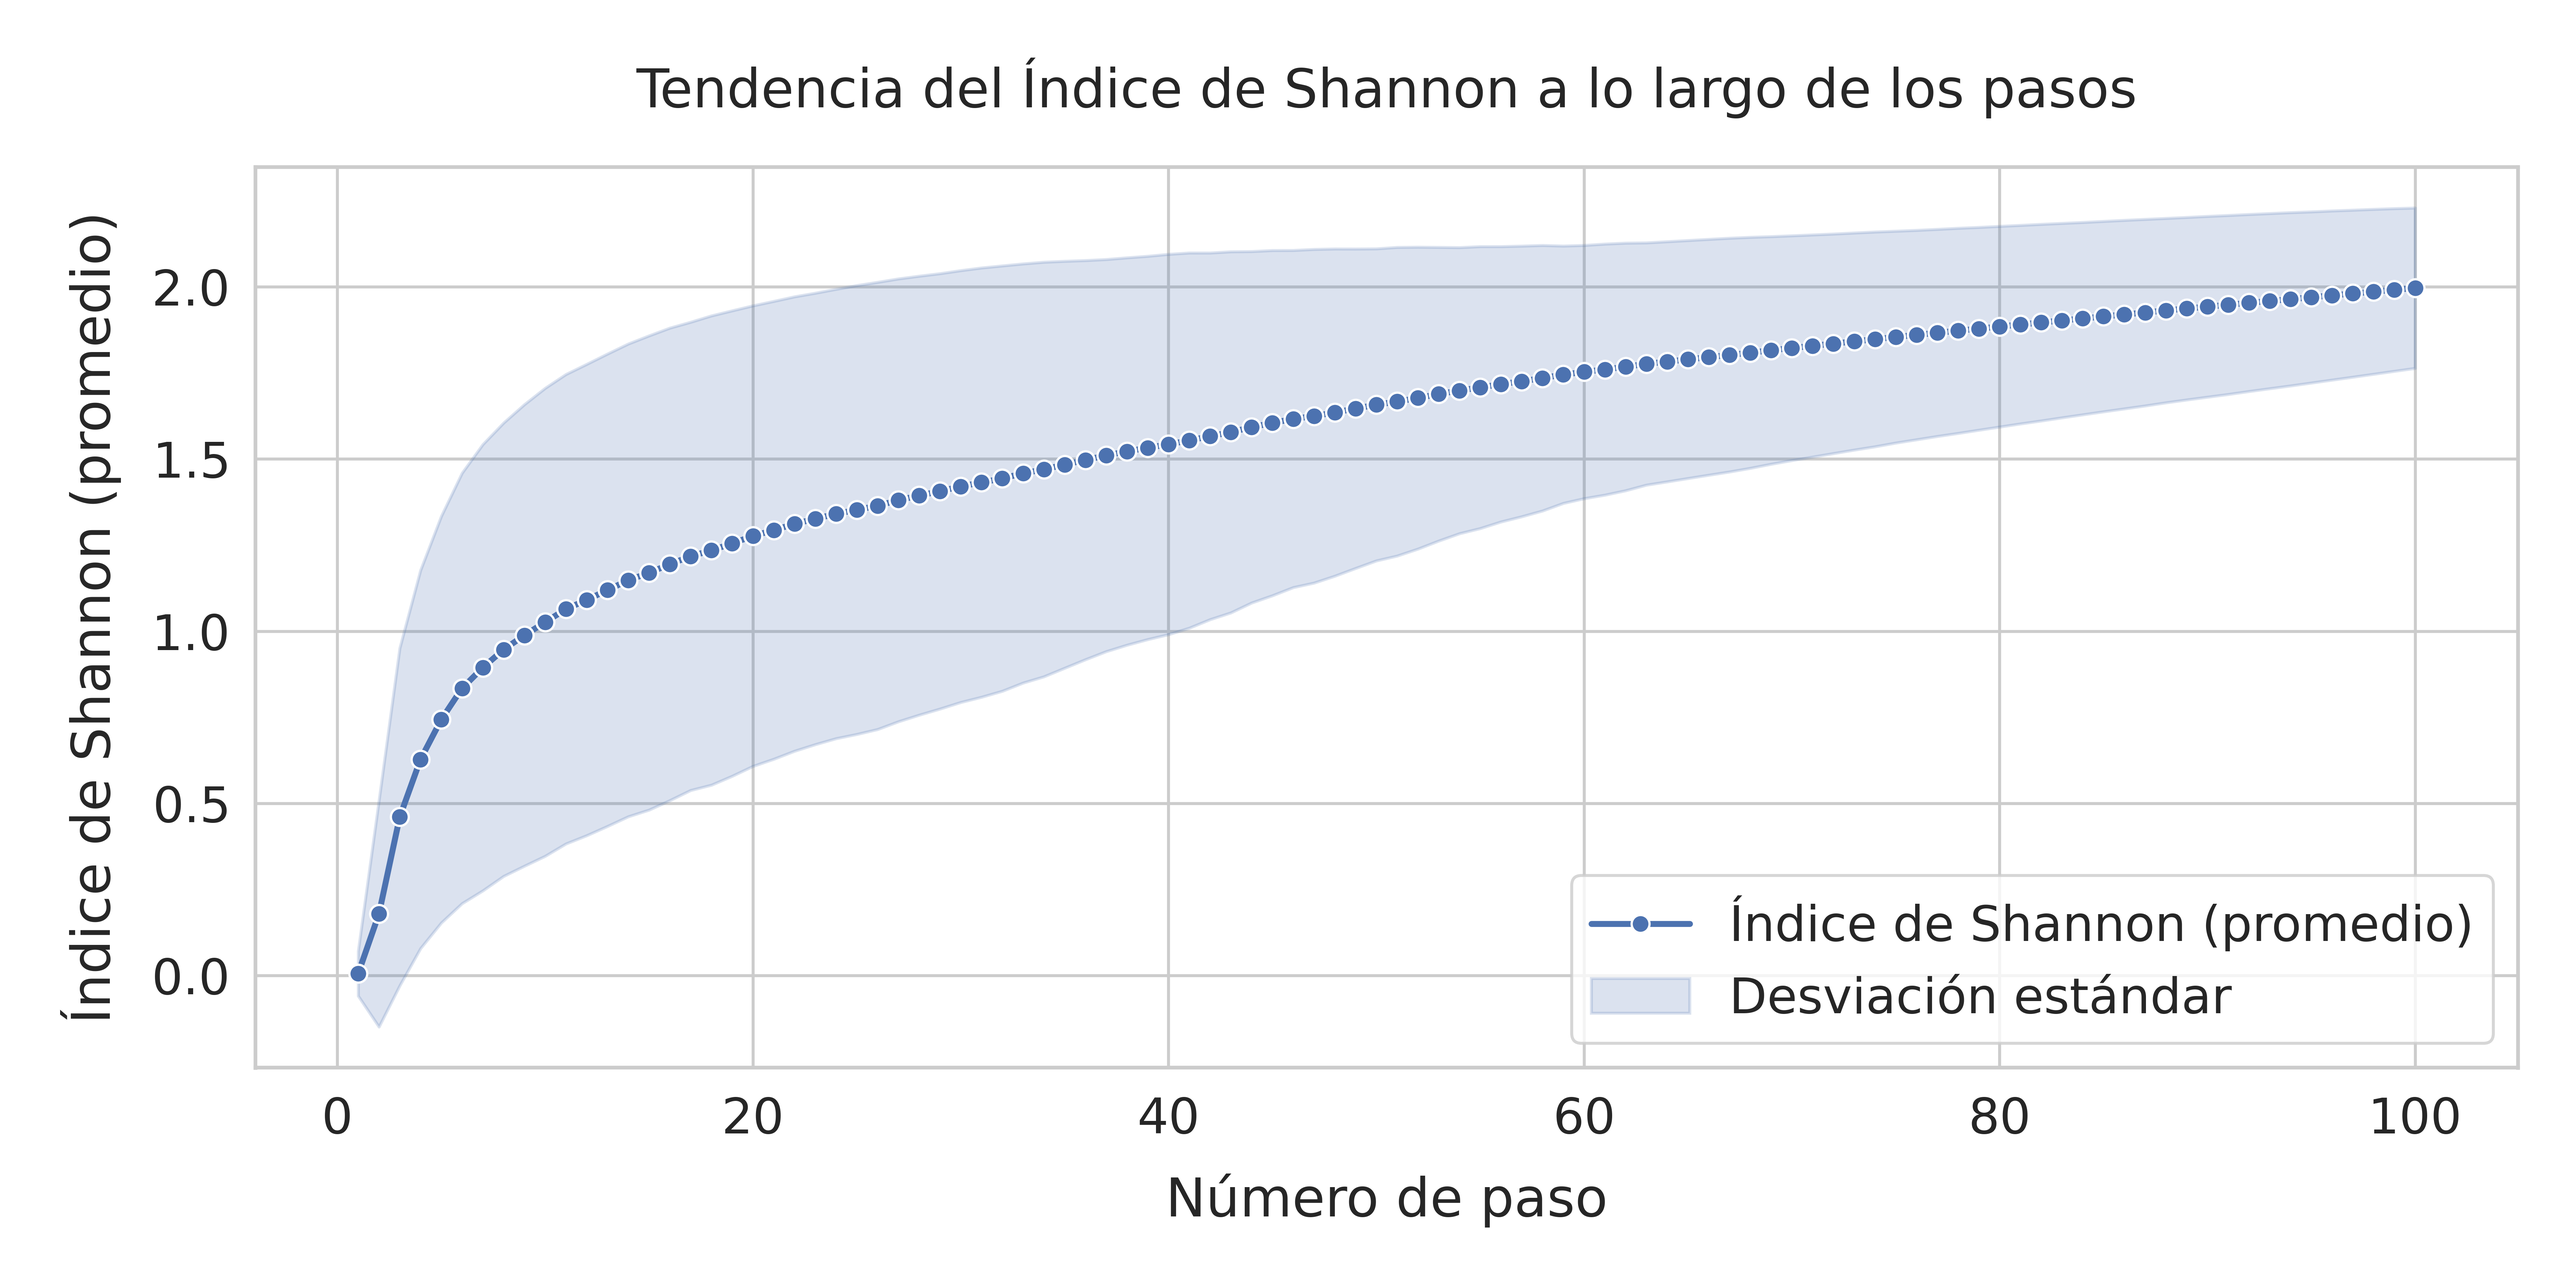
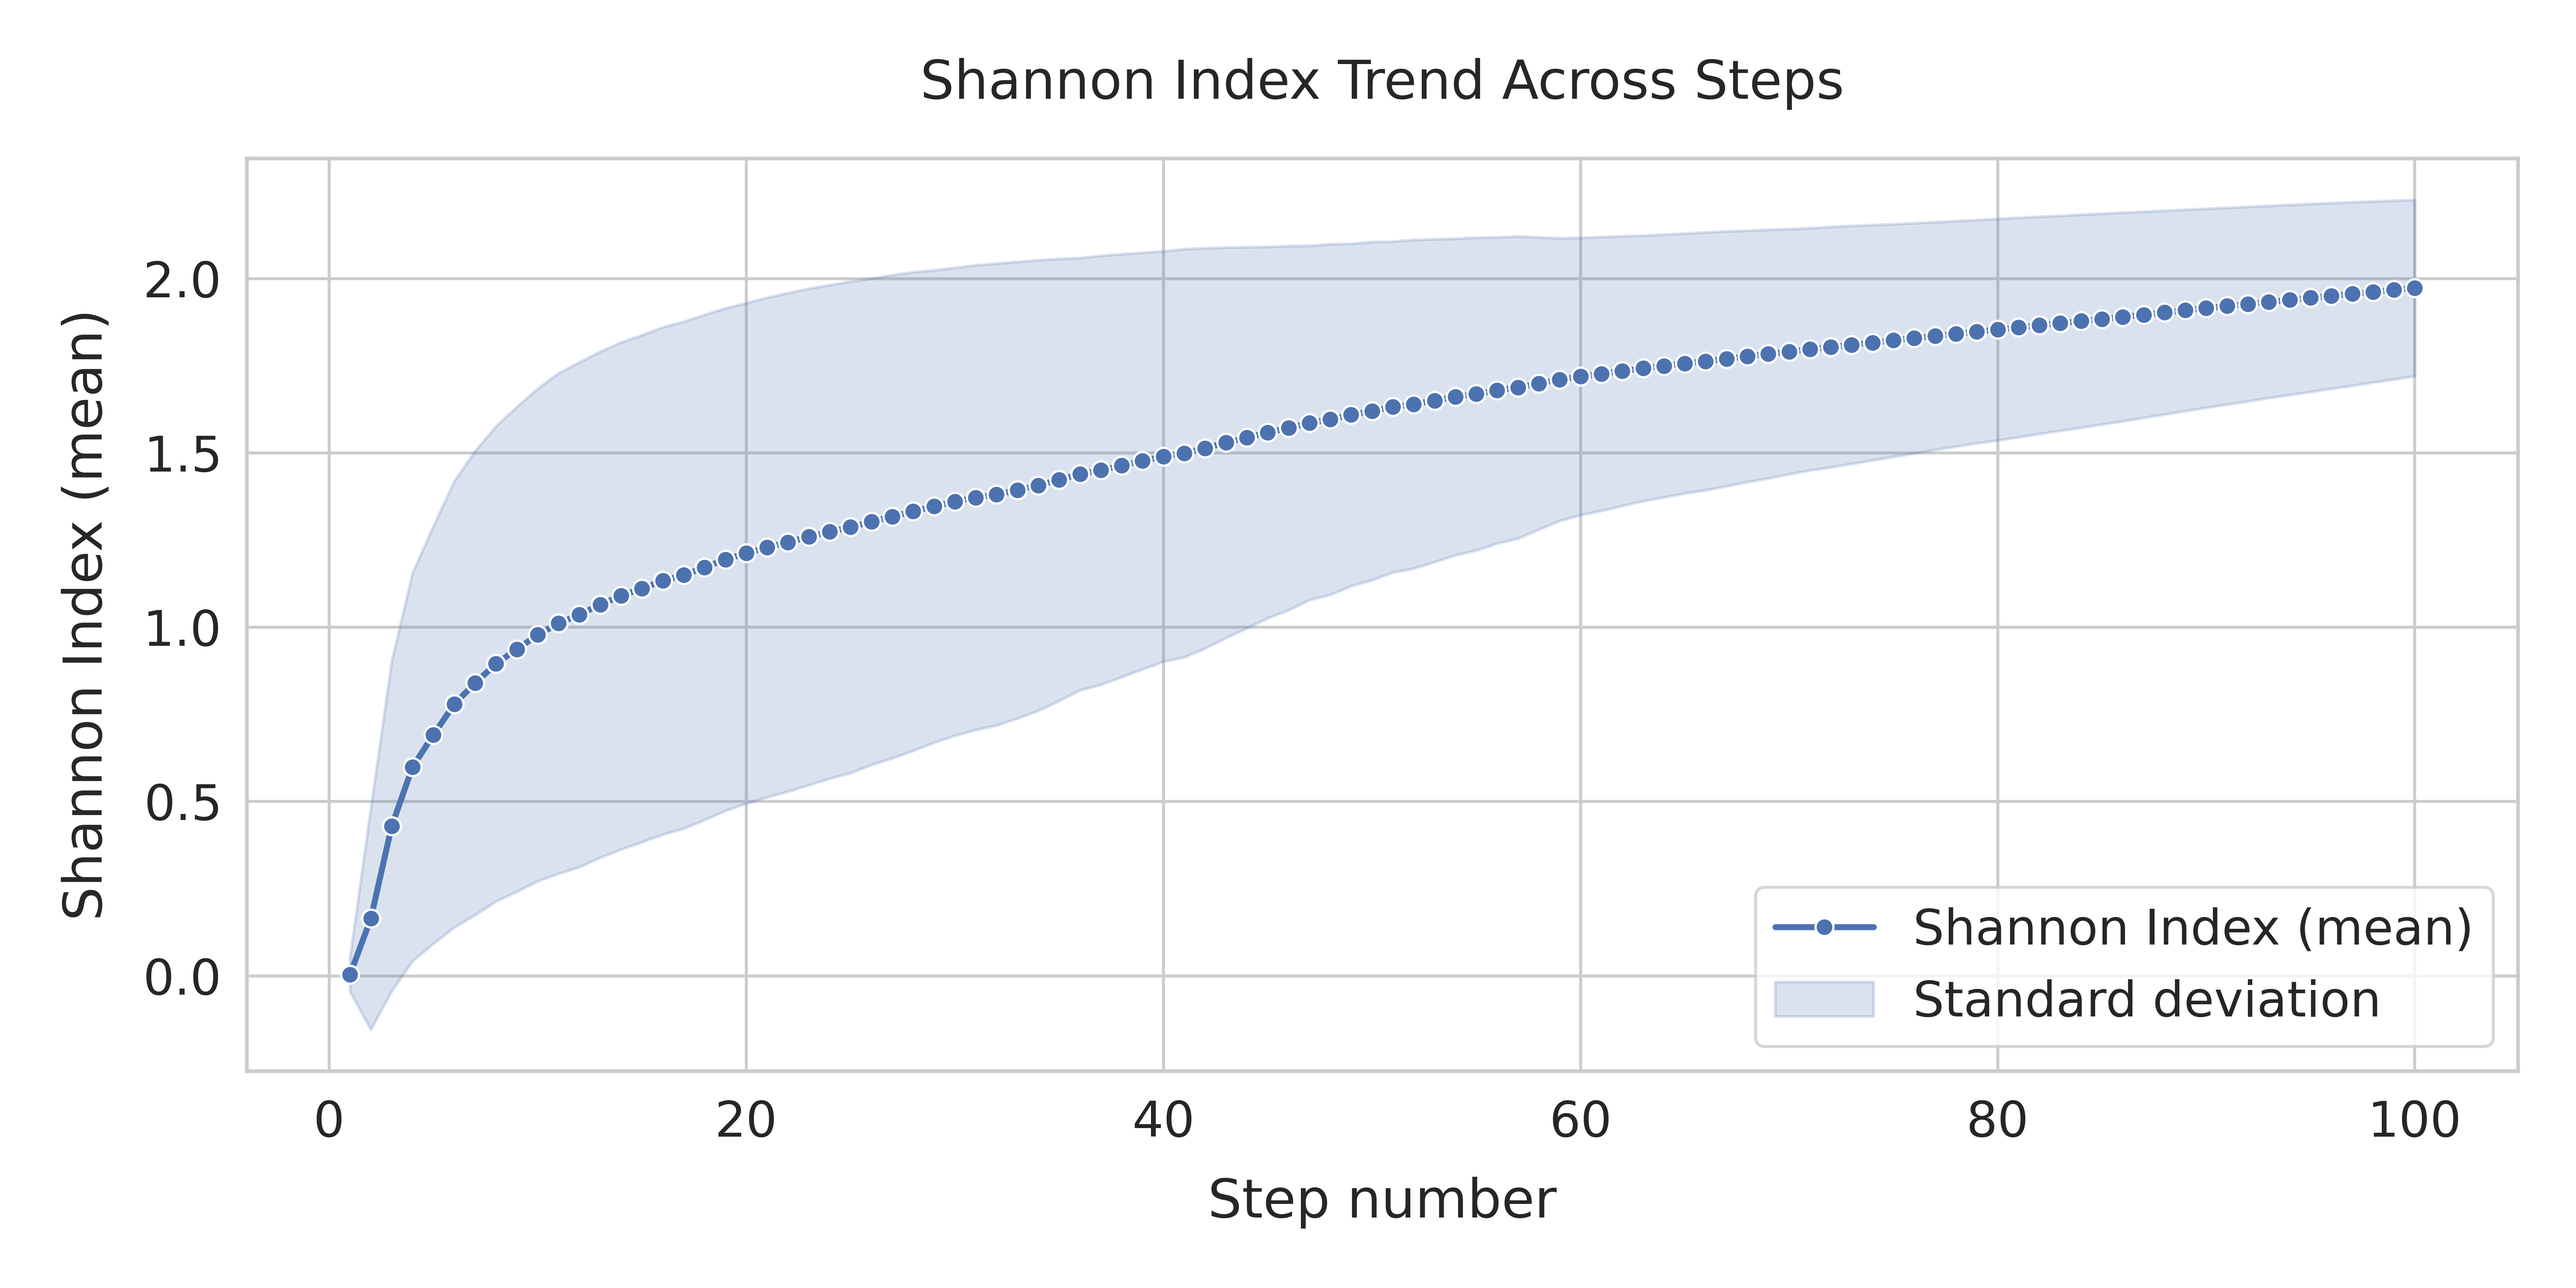
Improvements and corrections

diff --git a/Analysis/Diversity_Index/ROI_Sampling/shannon_heatmap_old.py b/Analysis/Diversity_Index/ROI_Sampling/shannon_heatmap_old.py
@@ -2,8 +2,7 @@ import pandas as pd
 import matplotlib.pyplot as plt
 import seaborn as sns
 import numpy as np
-from numba import jit
-import time
+import time  # Added import
 
 # Configuration
 INPUT_CSV = 'shannon_results.csv'
@@ -16,25 +15,14 @@ Y_LABEL_INTERVAL = 50
 FONT_SCALE = 0.8
 THRESHOLD = 1  # Minimum value considered as "high" for the Shannon index
 
-def timeit(func):
-    """Timing decorator to measure function execution time."""
-    def wrapper(*args, **kwargs):
-        start_time = time.perf_counter()
-        result = func(*args, **kwargs)
-        end_time = time.perf_counter()
-        print(f"Executed {func.__name__} in {end_time - start_time:.4f} seconds")
-        return result
-    return wrapper
+def calculate_sorting_metric(row):
+    """Calculates sorting metric: first step that exceeds the threshold"""
+    steps = row.filter(like='step_').values
+    above_threshold = np.where(steps >= THRESHOLD)[0]
+    if len(above_threshold) > 0:
+        return above_threshold[0]  # First step that exceeds the threshold
+    return len(steps)  # If it never exceeds, place at the end
 
-@jit(nopython=True)
-def calculate_sorting_metric_numba(steps_row, threshold):
-    """Numba-accelerated metric: first step exceeding the threshold."""
-    for idx in range(len(steps_row)):
-        if steps_row[idx] >= threshold:
-            return idx
-    return len(steps_row)  # Default if never exceeded
-
-@timeit
 def create_shannon_heatmap(csv_path):
     # Set style
     sns.set(font_scale=FONT_SCALE)
@@ -42,34 +30,26 @@ def create_shannon_heatmap(csv_path):
     # Load and process data
     df = pd.read_csv(csv_path)
     
-    # Extract step columns as NumPy array for Numba
+    # Sort points by speed to reach high values
+    df['sort_key'] = df.apply(calculate_sorting_metric, axis=1)
+    df = df.sort_values(by='sort_key', ascending=True).drop('sort_key', axis=1)
+    
+    # Extract and sort step columns
     step_columns = sorted(
         [col for col in df.columns if col.startswith('step_')],
         key=lambda x: int(x.split('_')[1])
     )
-    steps_data = df[step_columns].values
-    
-    # Calculate sorting metrics using Numba
-    sort_keys = np.empty(len(df))
-    for i in range(len(df)):
-        sort_keys[i] = calculate_sorting_metric_numba(steps_data[i], THRESHOLD)
-    
-    # Sort and clean up
-    df['sort_key'] = sort_keys
-    df = df.sort_values(by='sort_key', ascending=True).drop('sort_key', axis=1)
     
     # Generate labels
     step_numbers = [int(col.split('_')[1]) for col in step_columns]
     x_labels = [
         str(num) if (num-1) % X_LABEL_INTERVAL == 0 else "" 
-        for num in step_numbers
-    ]
+        for num in step_numbers]
     
     num_samples = df.shape[0]
     y_labels = [
         f"Point {i+1}" if i % Y_LABEL_INTERVAL == 0 else "" 
-        for i in range(num_samples)
-    ]
+        for i in range(num_samples)]
 
     # Create heatmap
     plt.figure(figsize=FIG_SIZE)
@@ -78,8 +58,7 @@ def create_shannon_heatmap(csv_path):
         cmap=COLOR_MAP,
         cbar_kws={'label': 'Shannon Index'},
         yticklabels=y_labels,
-        xticklabels=x_labels
-    )
+        xticklabels=x_labels)
     
     # Customize axes
     ax.set_xlabel('Expansion Step', labelpad=15)
@@ -91,8 +70,7 @@ def create_shannon_heatmap(csv_path):
         ax.get_xticklabels(), 
         rotation=45, 
         ha='right',
-        fontsize=10
-    )
+        fontsize=10)
     
     # Add grid lines
     ax.hlines(
@@ -100,15 +78,15 @@ def create_shannon_heatmap(csv_path):
         xmin=0, 
         xmax=len(step_columns),
         colors='white',
-        linewidths=0.1
-    )
+        linewidths=0.1)
     
     plt.tight_layout()
     plt.savefig(OUTPUT_IMAGE, dpi=DPI, bbox_inches='tight')
     plt.close()
+    print(f"Heatmap saved to {OUTPUT_IMAGE}")
 
 if __name__ == "__main__":
-    start_time = time.perf_counter()
+    start_time = time.perf_counter()  # Added timer start
     create_shannon_heatmap(INPUT_CSV)
-    total_time = time.perf_counter() - start_time
-    print(f"\nTotal execution time: {total_time:.2f} seconds")
+    elapsed = time.perf_counter() - start_time  # Calculate elapsed time
+    print(f"\nTotal execution time: {elapsed:.2f} seconds")  # Added time print

diff --git a/Analysis/Diversity_Index/ROI_Sampling/shannon_lineplot.py b/Analysis/Diversity_Index/ROI_Sampling/shannon_lineplot.py
@@ -2,8 +2,9 @@ import pandas as pd
 import matplotlib.pyplot as plt
 import seaborn as sns
 from matplotlib.ticker import ScalarFormatter
+import time
 
-# Configuración
+# Configuration
 INPUT_CSV = 'shannon_results.csv'
 OUTPUT_IMAGE = 'shannon_lineplot.png'
 FONT_SCALE = 1.5
@@ -11,53 +12,59 @@ FIG_SIZE = (12, 6)
 DPI = 600
 
 def plot_shannon_trend_with_error(csv_path):
-    """Genera un gráfico de línea mostrando la tendencia del índice de Shannon con desviación estándar"""
-    # Estilo de seaborn
+    """Generate a line plot showing the trend of the Shannon Index with standard deviation"""
+    start_time = time.time()  # Start timer
+    
+    # Seaborn style
     sns.set(style="whitegrid", font_scale=FONT_SCALE)
 
-    # Cargar datos
+    # Load data
     df = pd.read_csv(csv_path)
 
-    # Extraer y ordenar columnas step
+    # Extract and sort step columns
     step_columns = sorted(
         [col for col in df.columns if col.startswith('step_')],
         key=lambda x: int(x.split('_')[1])
     )
 
-    # Calcular la media y la desviación estándar del índice de Shannon para cada paso
+    # Calculate mean and standard deviation of Shannon Index for each step
     mean_values = df[step_columns].mean(axis=0)
     std_values = df[step_columns].std(axis=0)
     step_numbers = [int(col.split('_')[1]) for col in step_columns]
 
-    # Crear gráfico
+    # Create plot
     plt.figure(figsize=FIG_SIZE)
-    ax = sns.lineplot(x=step_numbers, y=mean_values.values, marker='o', linewidth=2, label='Índice de Shannon (promedio)')
+    ax = sns.lineplot(x=step_numbers, y=mean_values.values, marker='o', linewidth=2, label='Shannon Index (mean)')
 
-    # Añadir la banda de error (desviación estándar)
+    # Add error band (standard deviation)
     ax.fill_between(
         step_numbers,
         mean_values - std_values,
         mean_values + std_values,
-        color='b', alpha=0.2, label='Desviación estándar'
+        color='b', alpha=0.2, label='Standard deviation'
     )
 
-    # Etiquetas y título
-    ax.set_xlabel('Número de paso', labelpad=10)
-    ax.set_ylabel('Índice de Shannon (promedio)', labelpad=10)
-    plt.title('Tendencia del Índice de Shannon a lo largo de los pasos', pad=20)
+    # Labels and title
+    ax.set_xlabel('Step number', labelpad=10)
+    ax.set_ylabel('Shannon Index (mean)', labelpad=10)
+    plt.title('Shannon Index Trend Across Steps', pad=20)
 
-    # Notación científica en el eje Y
+    # Scientific notation for Y-axis
     ax.yaxis.set_major_formatter(ScalarFormatter(useMathText=True))
     ax.ticklabel_format(style='sci', axis='y', scilimits=(0, 0))
 
-    # Leyenda
+    # Legend
     ax.legend()
 
-    # Guardar gráfico
+    # Save plot
     plt.tight_layout()
     plt.savefig(OUTPUT_IMAGE, dpi=DPI)
     plt.close()
-    print(f"Gráfico de tendencia guardado en: {OUTPUT_IMAGE}")
+    
+    # Print execution time
+    execution_time = time.time() - start_time
+    print(f"Plot saved to: {OUTPUT_IMAGE}")
+    print(f"Execution time: {execution_time:.2f} seconds")
 
 if __name__ == "__main__":
     plot_shannon_trend_with_error(INPUT_CSV)
